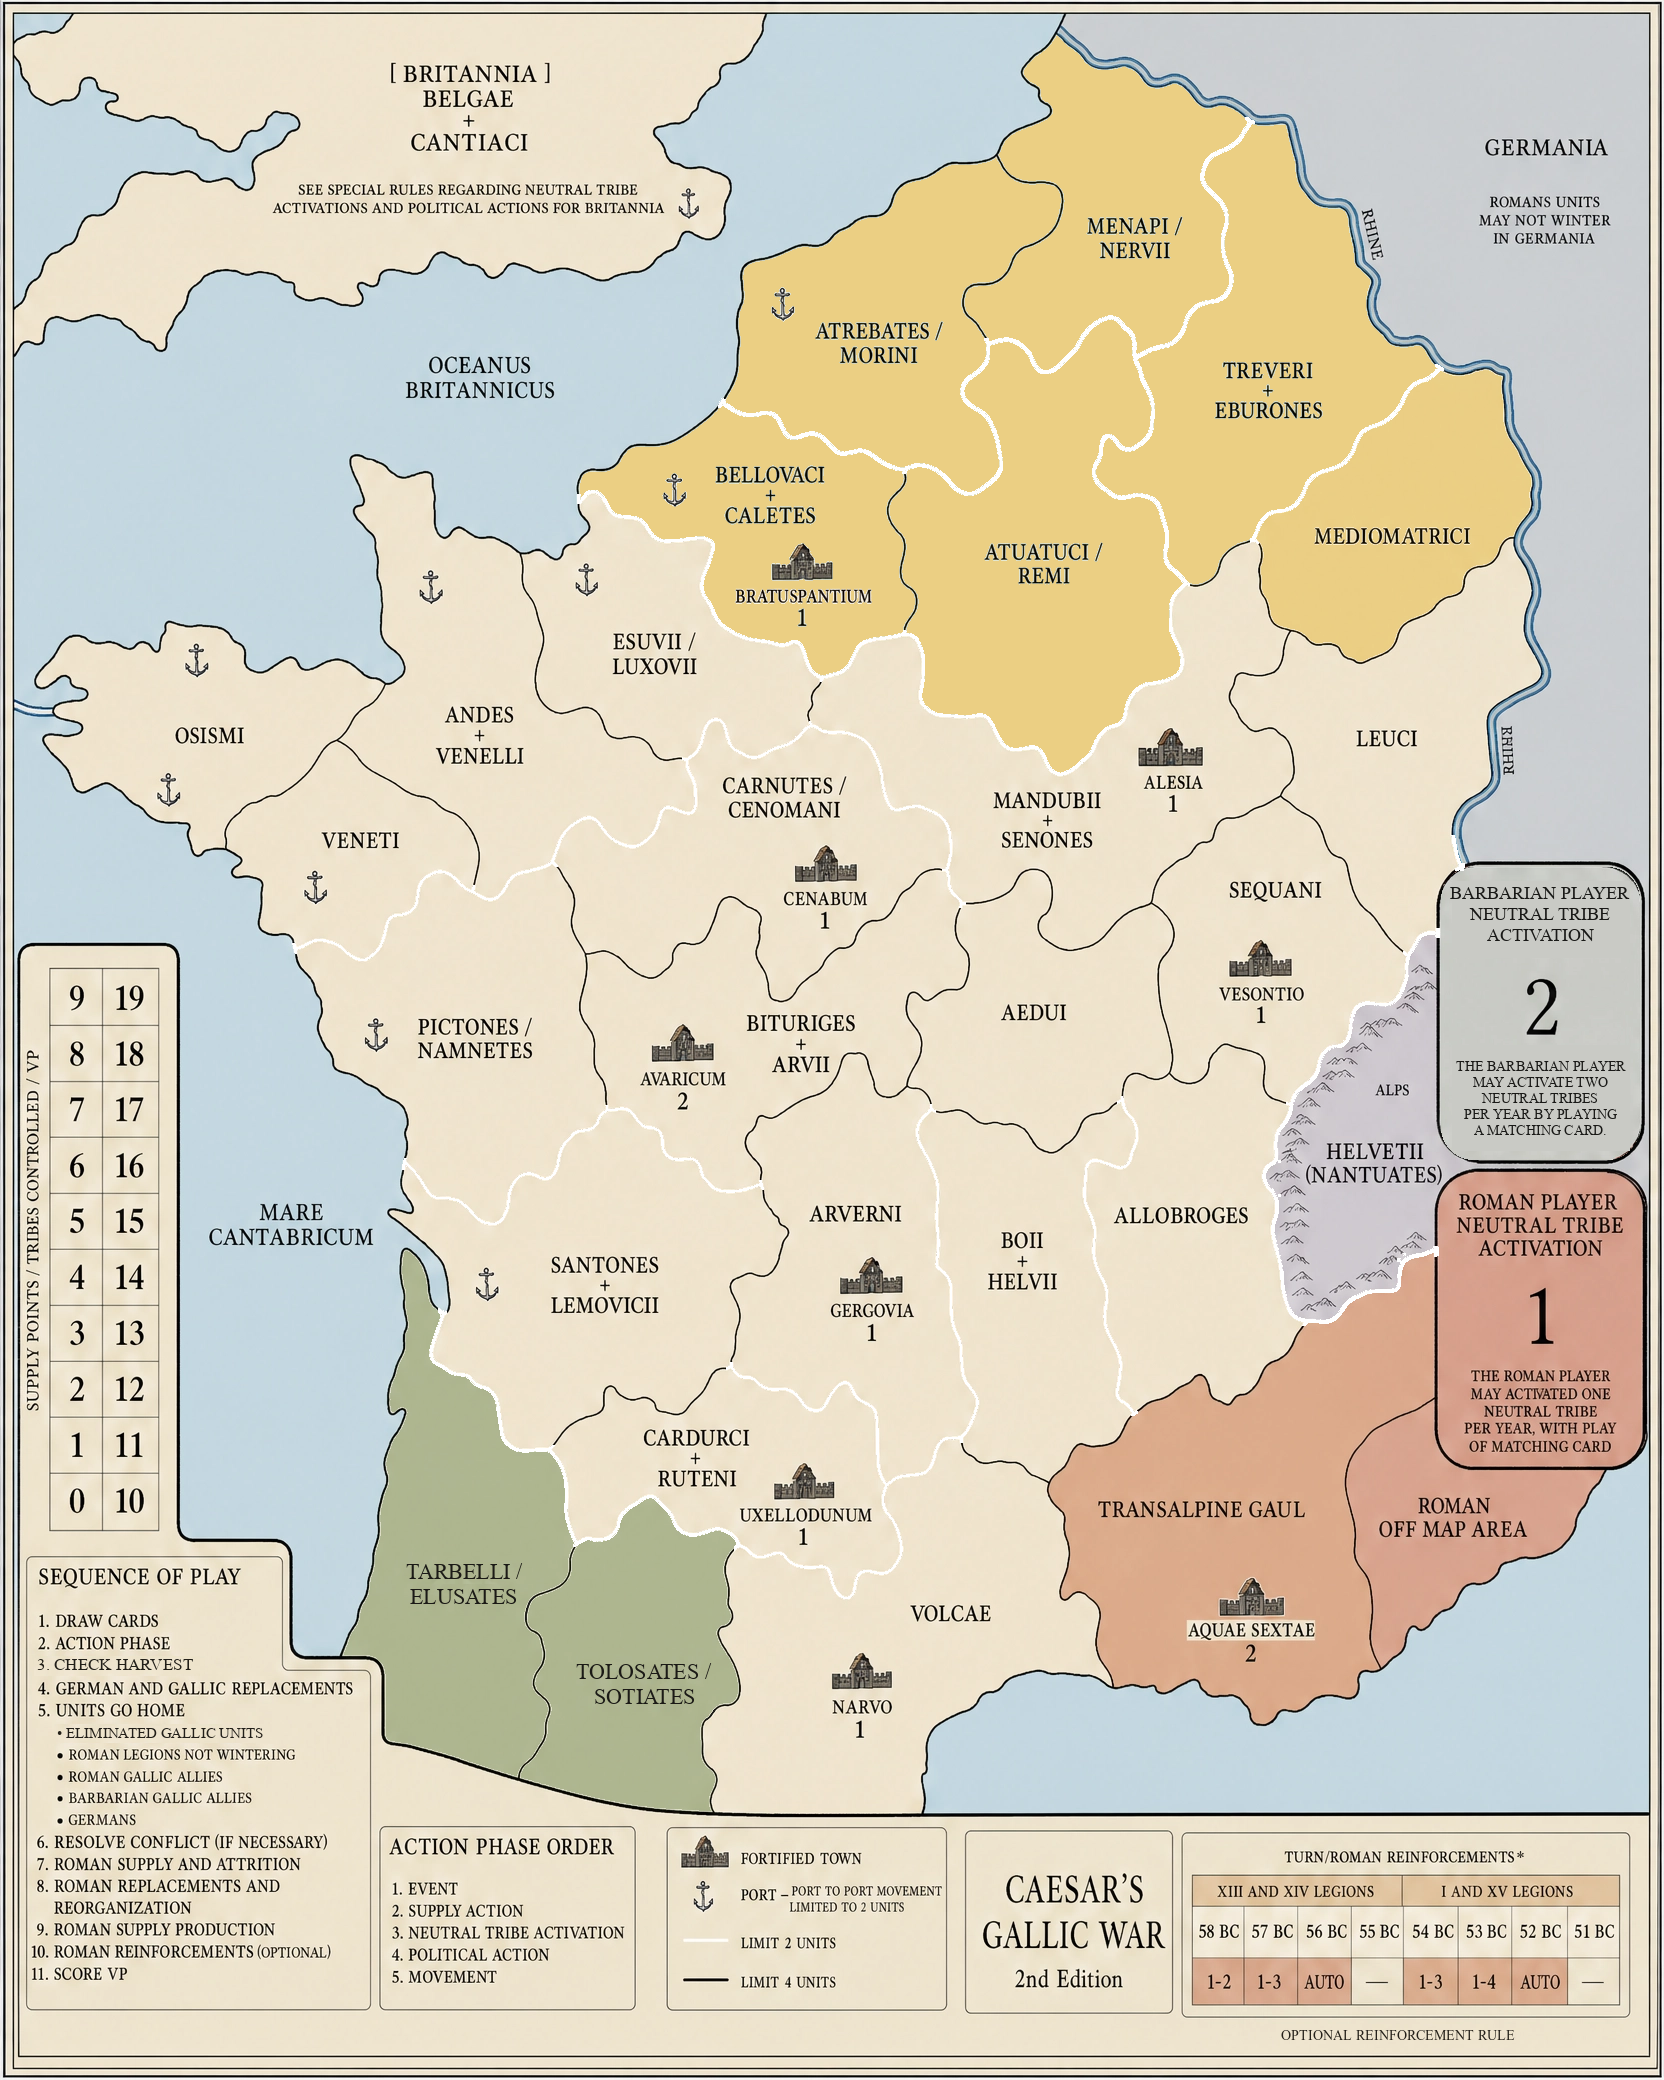
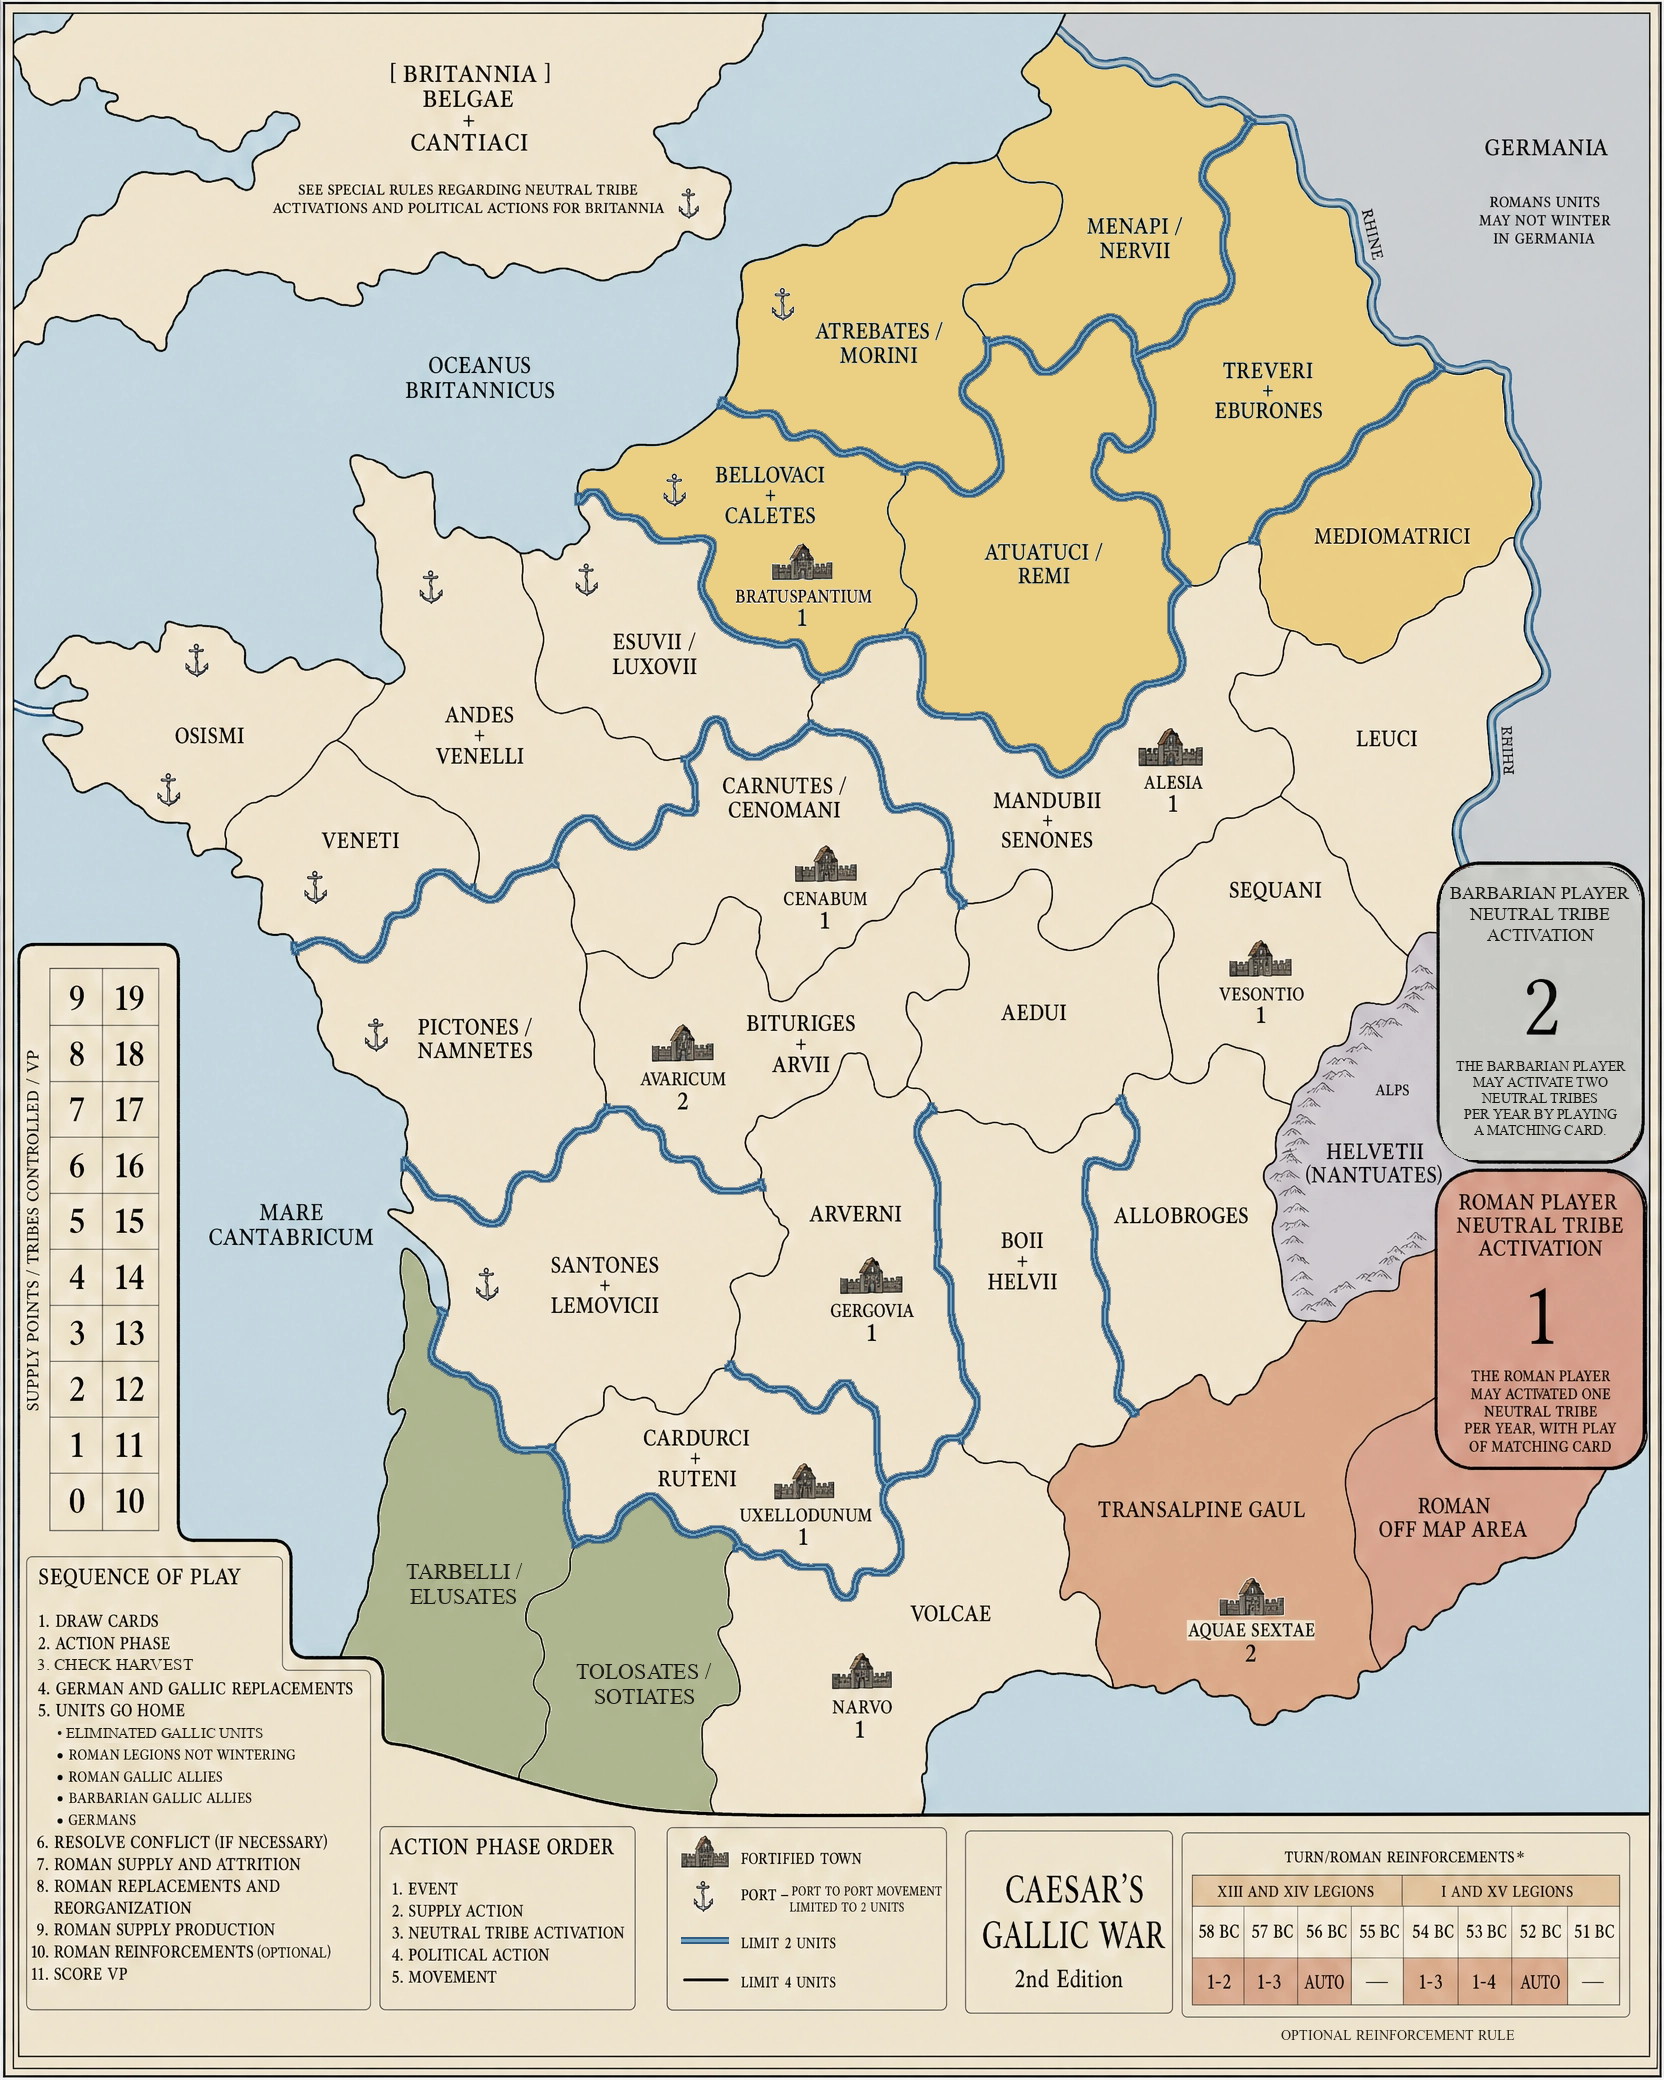
Style river boundaries for atlas map

diff --git a/game/app/assets/javascripts/game.js b/game/app/assets/javascripts/game.js
@@ -2442,7 +2442,7 @@ document.addEventListener("DOMContentLoaded", () => {
   function isBorderPixel(red, green, blue) {
     const average = (red + green + blue) / 3;
     const chroma = Math.max(red, green, blue) - Math.min(red, green, blue);
-    const riverBoundary = red > 248 && green > 248 && blue > 248;
+    const riverBoundary = blue > green && green > red && blue - red > 40 && average < 160;
     return riverBoundary || average < 100 || (average < 175 && chroma < 24);
   }
 
